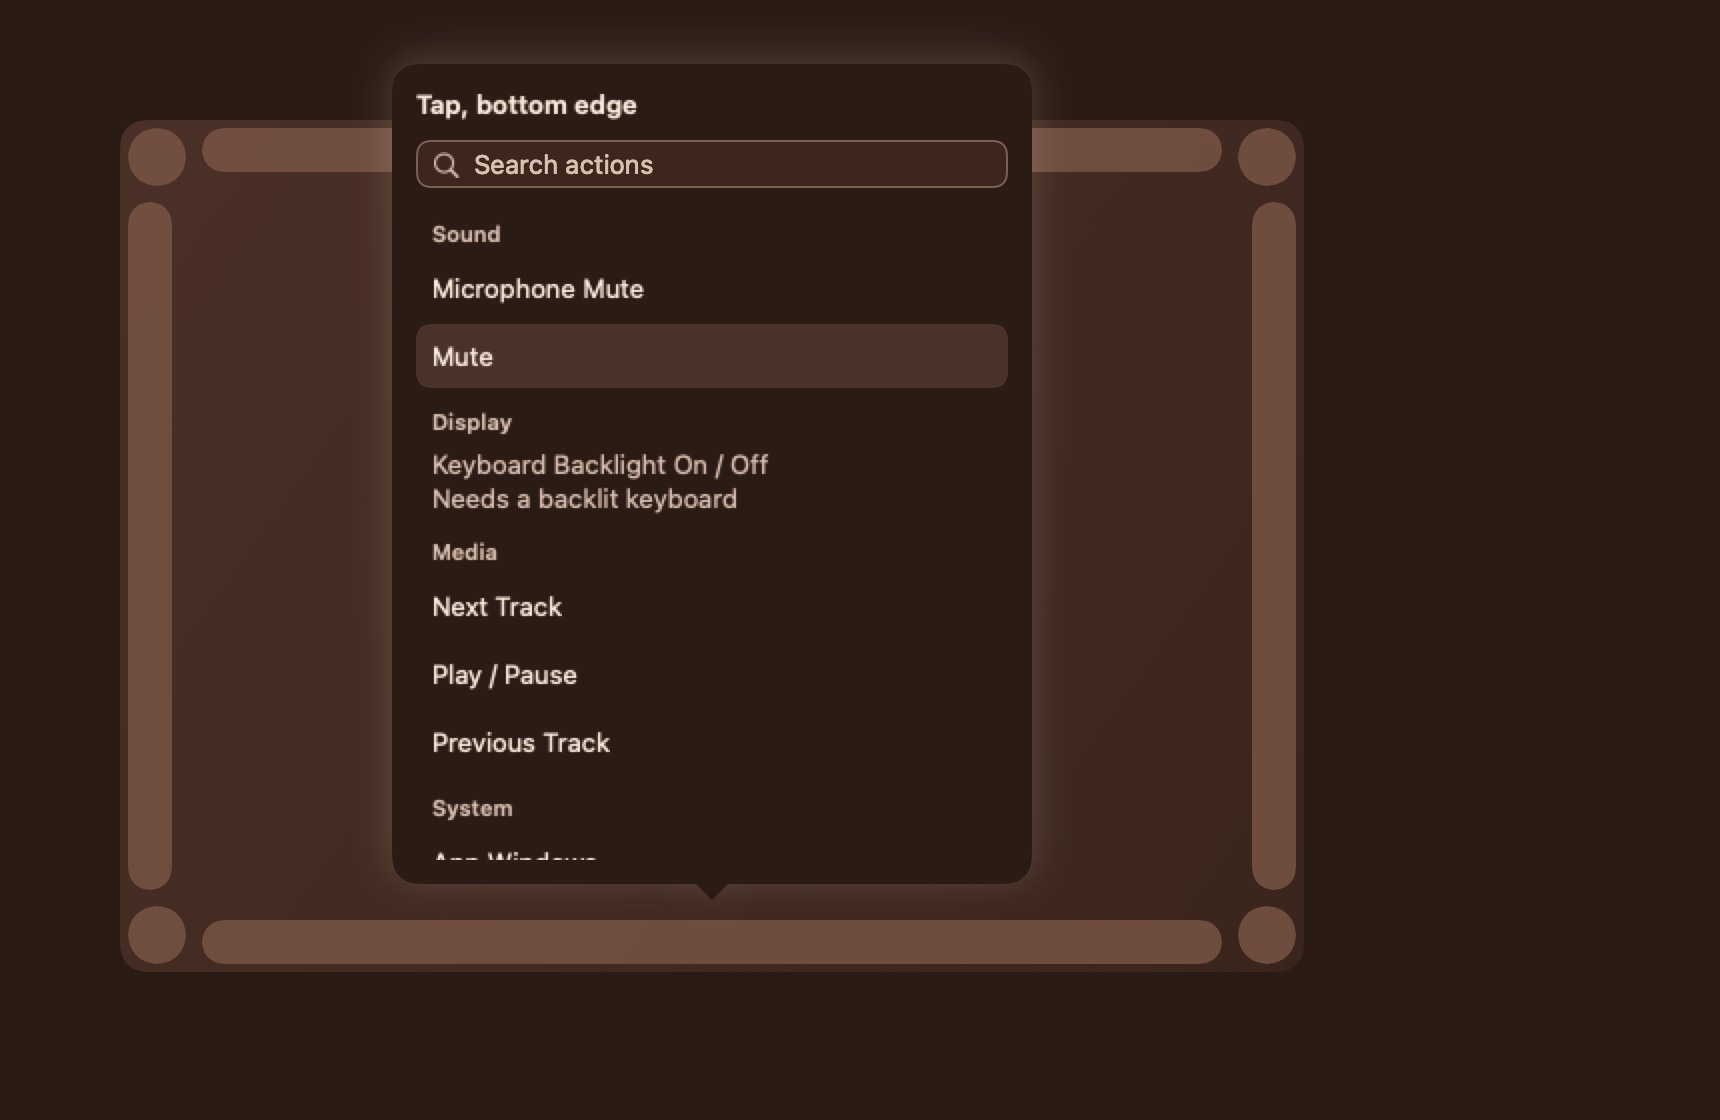
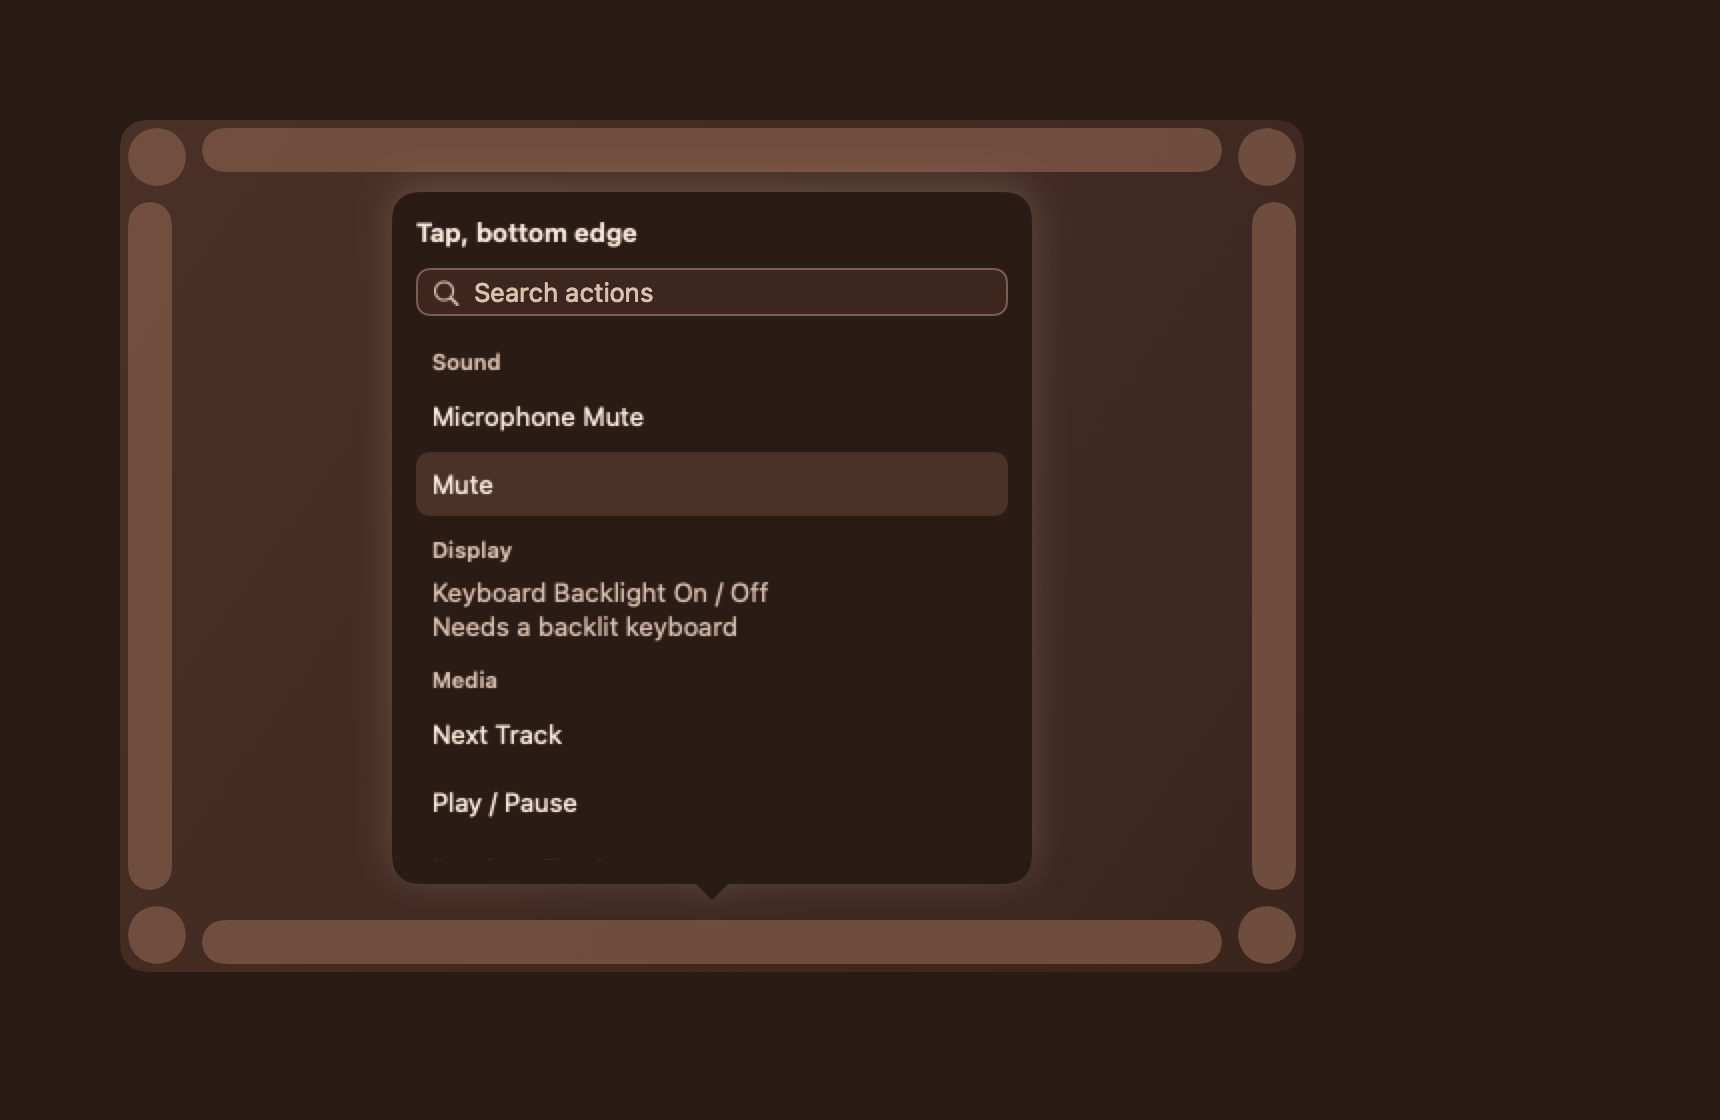
batch 15: picker shortens to clear every other zone (interior-height cap), capped by min(420, mirror − 16)

Changed region(s): [[0.2157, 0.25, 0.5855, 0.75], [0.2157, 0.0625, 0.6163, 0.2188]]

diff --git a/Tests/EdgyUITests/Picker/PickerTests.swift b/Tests/EdgyUITests/Picker/PickerTests.swift
@@ -75,13 +75,34 @@ import Testing
     #expect(PickerPlacement.width <= PickerPlacement.maxWidth)
   }
 
-  @Test func aBottomBarOpensUpwardWithoutCoveringItOrItsNeighbours() {
-    let size = CGSize(width: 320, height: 420)
+  var top: CGRect { CGRect(x: pad.minX + 54, y: pad.minY, width: pad.width - 108, height: 43) }
+
+  @Test func aBottomBarOpensUpwardWithoutCoveringAnyOtherBar() {
+    let size = CGSize(width: 320, height: PickerPlacement.height(mirrorHeight: pad.height))
     let result = PickerPlacement.place(
-      anchor: bottom, zone: .edge(.bottom), avoiding: [left, right], size: size, in: window)
+      anchor: bottom, zone: .edge(.bottom), avoiding: [left, right, top], size: size, in: window)
     #expect(result.side == .above)
     #expect(!result.frame.intersects(bottom))
     #expect(!result.frame.intersects(left) && !result.frame.intersects(right))
+    #expect(!result.frame.intersects(top))  // shrinks below the cap rather than cover the opposite bar
+    #expect(result.frame.height <= size.height && result.frame.height >= PickerPlacement.minHeight)
+  }
+
+  /// A to-scale external pad at 3.7 pt/mm (592 × 425, 30 pt strips): mirror − 16 is taller than the
+  /// interior, so the picker shortens to sit between the bars.
+  @Test func onAShortPadThePickerShrinksBetweenTheBars() {
+    let pad = CGRect(x: 60, y: 60, width: 592, height: 425)
+    let bar: CGFloat = 30
+    let bottom = CGRect(x: pad.minX + 37, y: pad.maxY - bar, width: pad.width - 74, height: bar)
+    let top = CGRect(x: pad.minX + 37, y: pad.minY, width: pad.width - 74, height: bar)
+    let left = CGRect(x: pad.minX, y: pad.minY + 37, width: bar, height: pad.height - 74)
+    let right = CGRect(x: pad.maxX - bar, y: pad.minY + 37, width: bar, height: pad.height - 74)
+    let size = CGSize(width: 320, height: PickerPlacement.height(mirrorHeight: pad.height))
+    let result = PickerPlacement.place(
+      anchor: bottom, zone: .edge(.bottom), avoiding: [top, left, right], size: size, in: window)
+    #expect(result.side == .above)
+    #expect(result.frame.height < size.height)
+    for zone in [bottom, top, left, right] { #expect(!result.frame.intersects(zone)) }
     #expect(window.contains(result.frame))
     #expect(abs(result.frame.minX + result.arrowOffset - bottom.midX) < 1)
   }
@@ -89,9 +110,10 @@ import Testing
   @Test func aRightStripOpensToItsLeft() {
     let size = CGSize(width: 320, height: 420)
     let result = PickerPlacement.place(
-      anchor: right, zone: .edge(.right), avoiding: [bottom, left], size: size, in: window)
+      anchor: right, zone: .edge(.right), avoiding: [bottom, left, top], size: size, in: window)
     #expect(result.side == .left)
     #expect(!result.frame.intersects(right))
+    #expect(!result.frame.intersects(top) && !result.frame.intersects(bottom))
     #expect(window.contains(result.frame))
   }
 

diff --git a/Sources/EdgyUI/Picker/PickerCatalog.swift b/Sources/EdgyUI/Picker/PickerCatalog.swift
@@ -100,6 +100,8 @@ enum PickerPlacement {
   /// Tallest: 420, and never taller than the mirror − 16 pt (so it never covers the pad's other bars).
   static let maxHeight: CGFloat = 420
   static let mirrorInset: CGFloat = 16
+  /// The shortest the picker gets when it shrinks to clear other zones (header, search, ~4 rows).
+  static let minHeight: CGFloat = 200
   /// Gap between the arrow tip and the zone, and from the window edge.
   static let gap: CGFloat = 6
   static let margin: CGFloat = 8
@@ -140,14 +142,26 @@ enum PickerPlacement {
     anchor: CGRect, zone: Zone, avoiding others: [CGRect], size: CGSize, in container: CGRect
   ) -> Result {
     let bounds = container.insetBy(dx: margin, dy: margin)
+    func overlap(_ result: Result) -> CGFloat {
+      var total = area(result.frame.intersection(anchor)) * 4
+      for other in others { total += area(result.frame.intersection(other)) }
+      if !bounds.contains(result.frame.integral.insetBy(dx: 1, dy: 1)) { total += area(result.frame.size) }
+      return total
+    }
     var best: (Result, CGFloat)?
+    // Inner side first; on each side the picker gets shorter (never below `minHeight`, the list
+    // scrolls) until it clears its zone and every other zone (BRIEF: it never covers the pad's
+    // other bars). Only when no side fits does the least-covering full-size spot win.
     for side in preferredSides(for: zone) {
-      let result = frame(for: side, anchor: anchor, size: size, bounds: bounds)
-      var overlap = area(result.frame.intersection(anchor)) * 4
-      for other in others { overlap += area(result.frame.intersection(other)) }
-      if !bounds.contains(result.frame.integral.insetBy(dx: 1, dy: 1)) { overlap += area(size) }
-      if overlap == 0 { return result }
-      if best == nil || overlap < best!.1 { best = (result, overlap) }
+      var height = size.height
+      while true {
+        let result = frame(for: side, anchor: anchor, size: CGSize(width: size.width, height: height), bounds: bounds)
+        let covered = overlap(result)
+        if covered == 0 { return result }
+        if height == size.height, best == nil || covered < best!.1 { best = (result, covered) }
+        guard height > minHeight else { break }
+        height = max(height - 8, minHeight)
+      }
     }
     return best!.0
   }

diff --git a/.parallel-plans/done-batch-15.md b/.parallel-plans/done-batch-15.md
@@ -170,6 +170,6 @@ git grep -niE -f ~/.config/edgy-names-denylist         → nothing (exit 1)
 
 ## Open questions
 
-1. **Picker height:** min(420, mirror − 16) still covers the pad's opposite bar when the picker opens across the pad. With 8 mm strips the interior is about mirror − 2×(8 mm + gap). Should the cap be the pad's interior height instead? The placement already avoids neighbouring zones whenever it fits.
+1. ~~**Picker height:**~~ **Resolved after merge.** The chief decided to cap the picker at the pad's interior. The follow-up commit makes `PickerPlacement.place` shorten the picker until it clears its zone and every other zone, with min(420, mirror − 16) as the upper bound and 200 pt as the floor. Tested on a to-scale 3.7 pt/mm pad (`onAShortPadThePickerShrinksBetweenTheBars`).
 2. **Should `SettingsModel` own drafts / focus / open-menu state?** See the blocker.
 3. **Hosting:** `.actionPickerHost(model:)` still needs to be put on the window. See the blocker.
